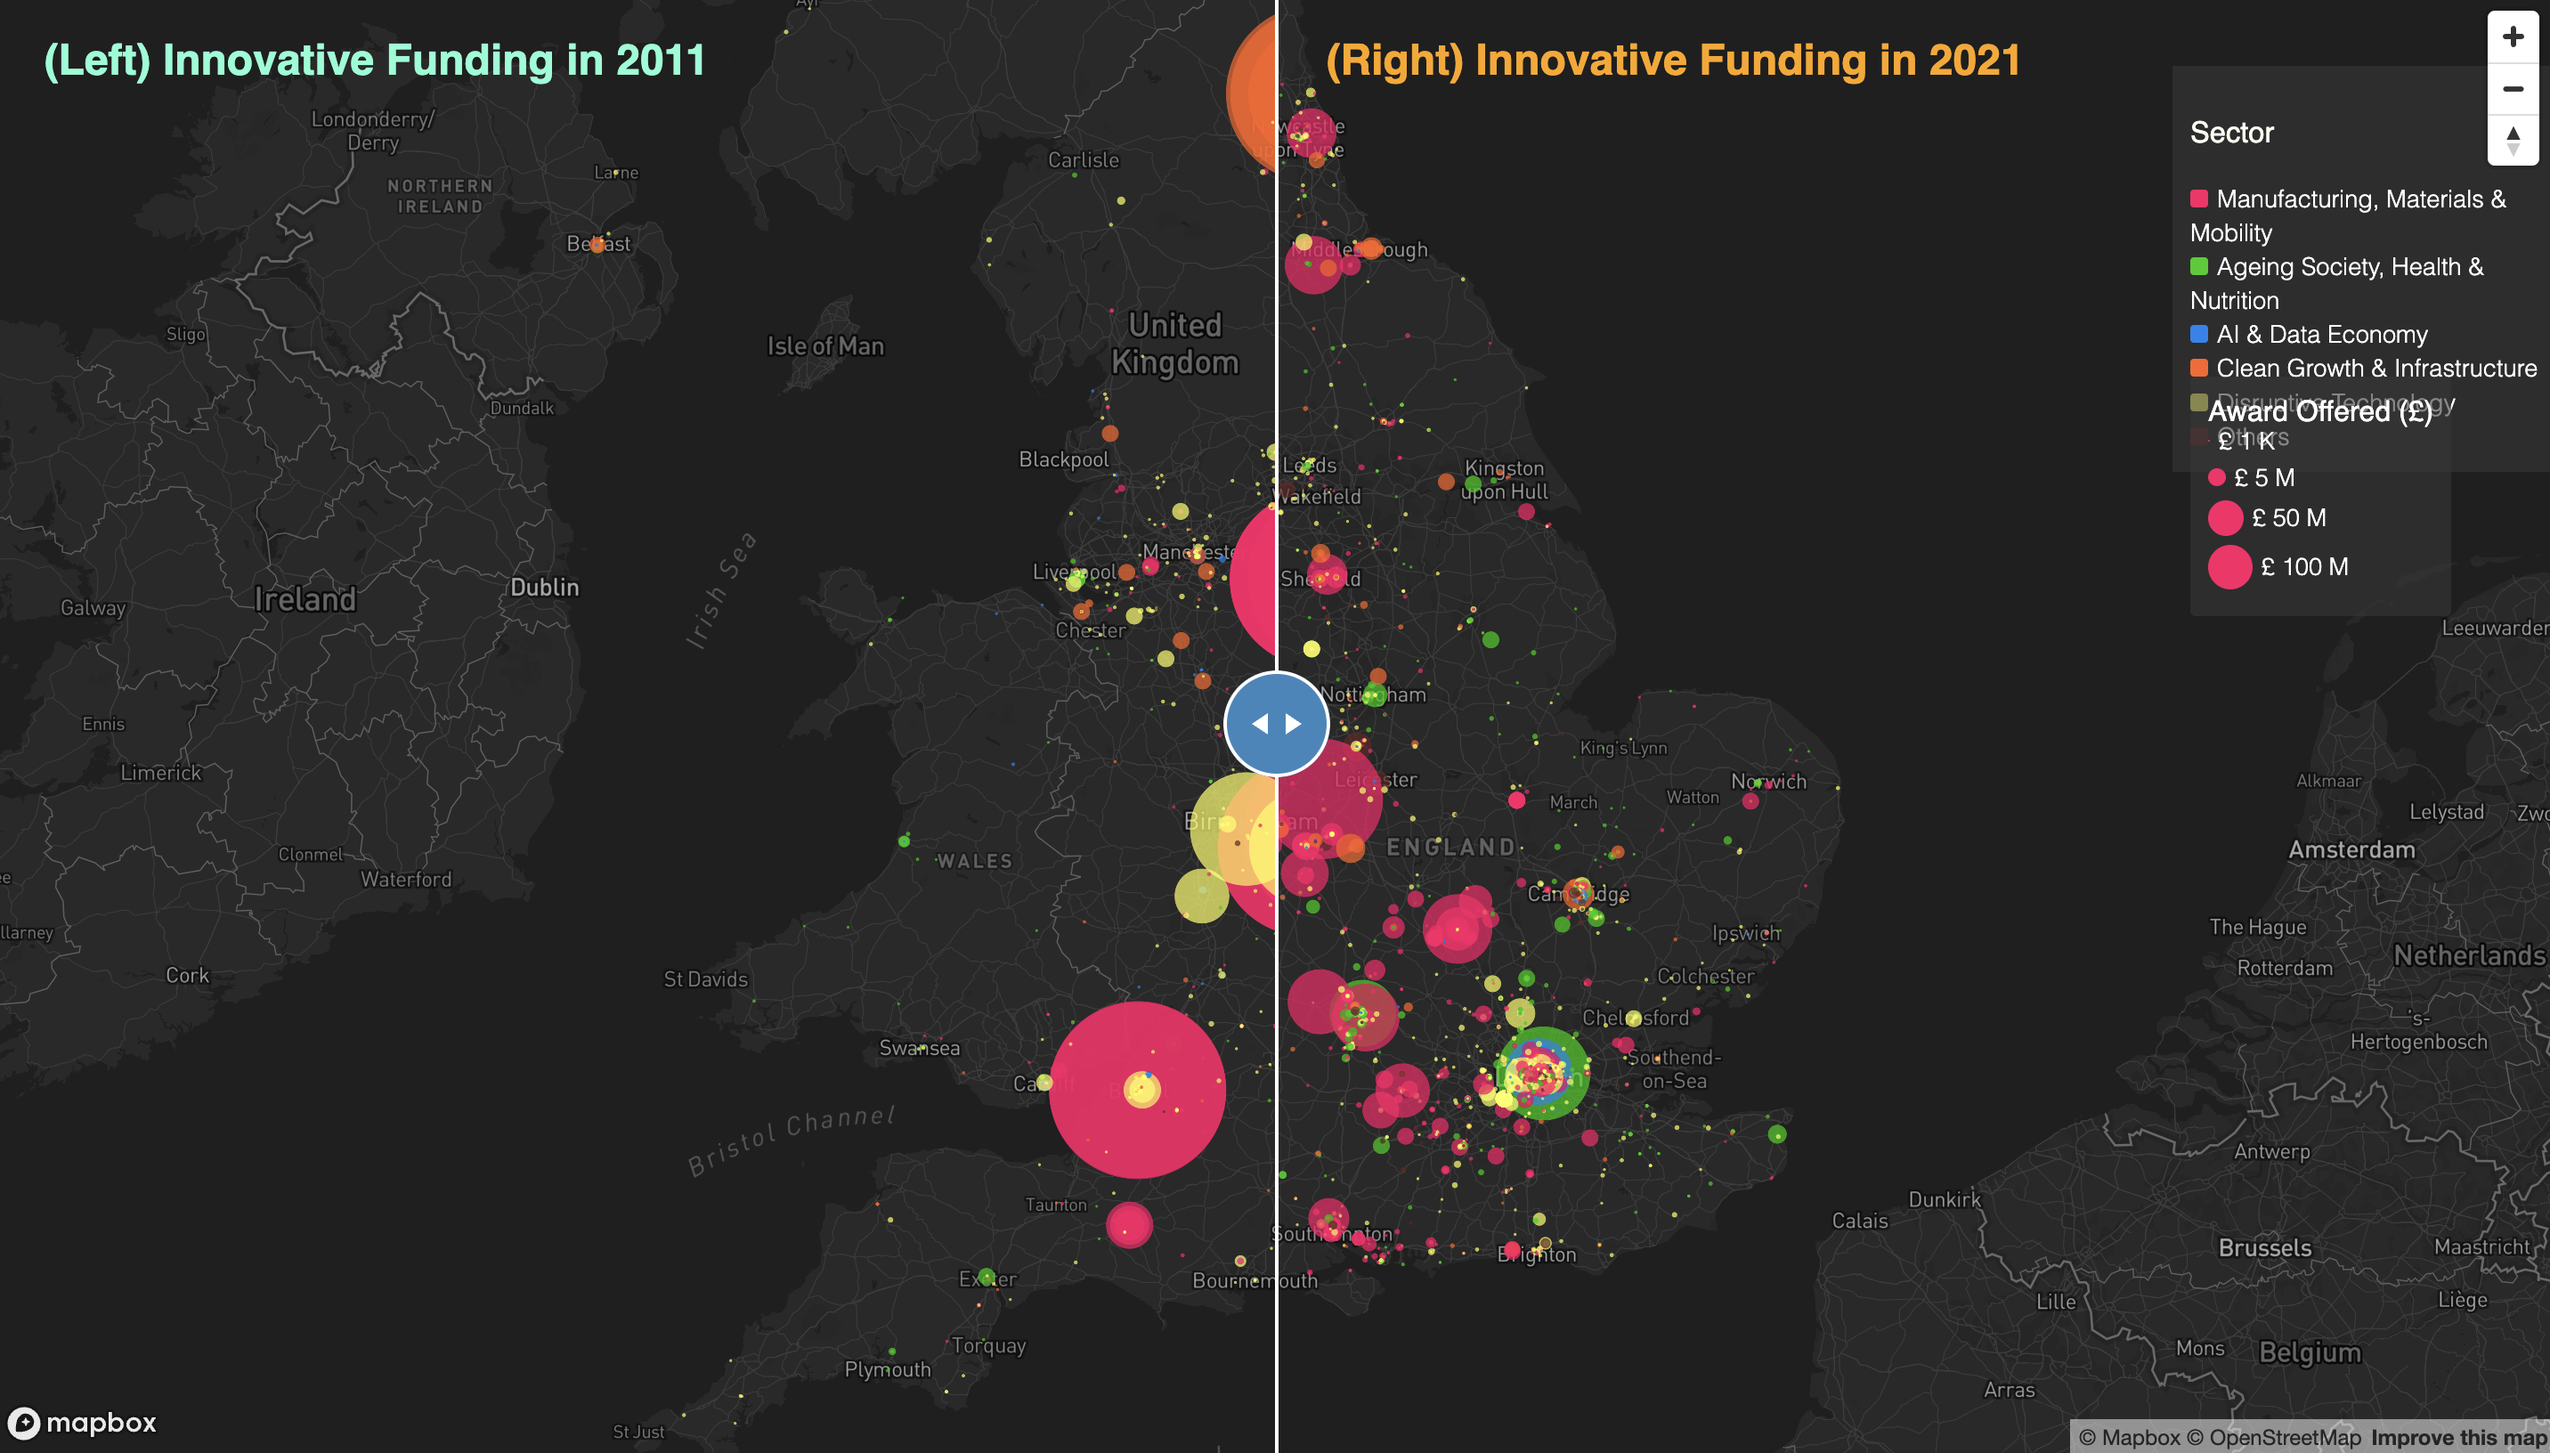
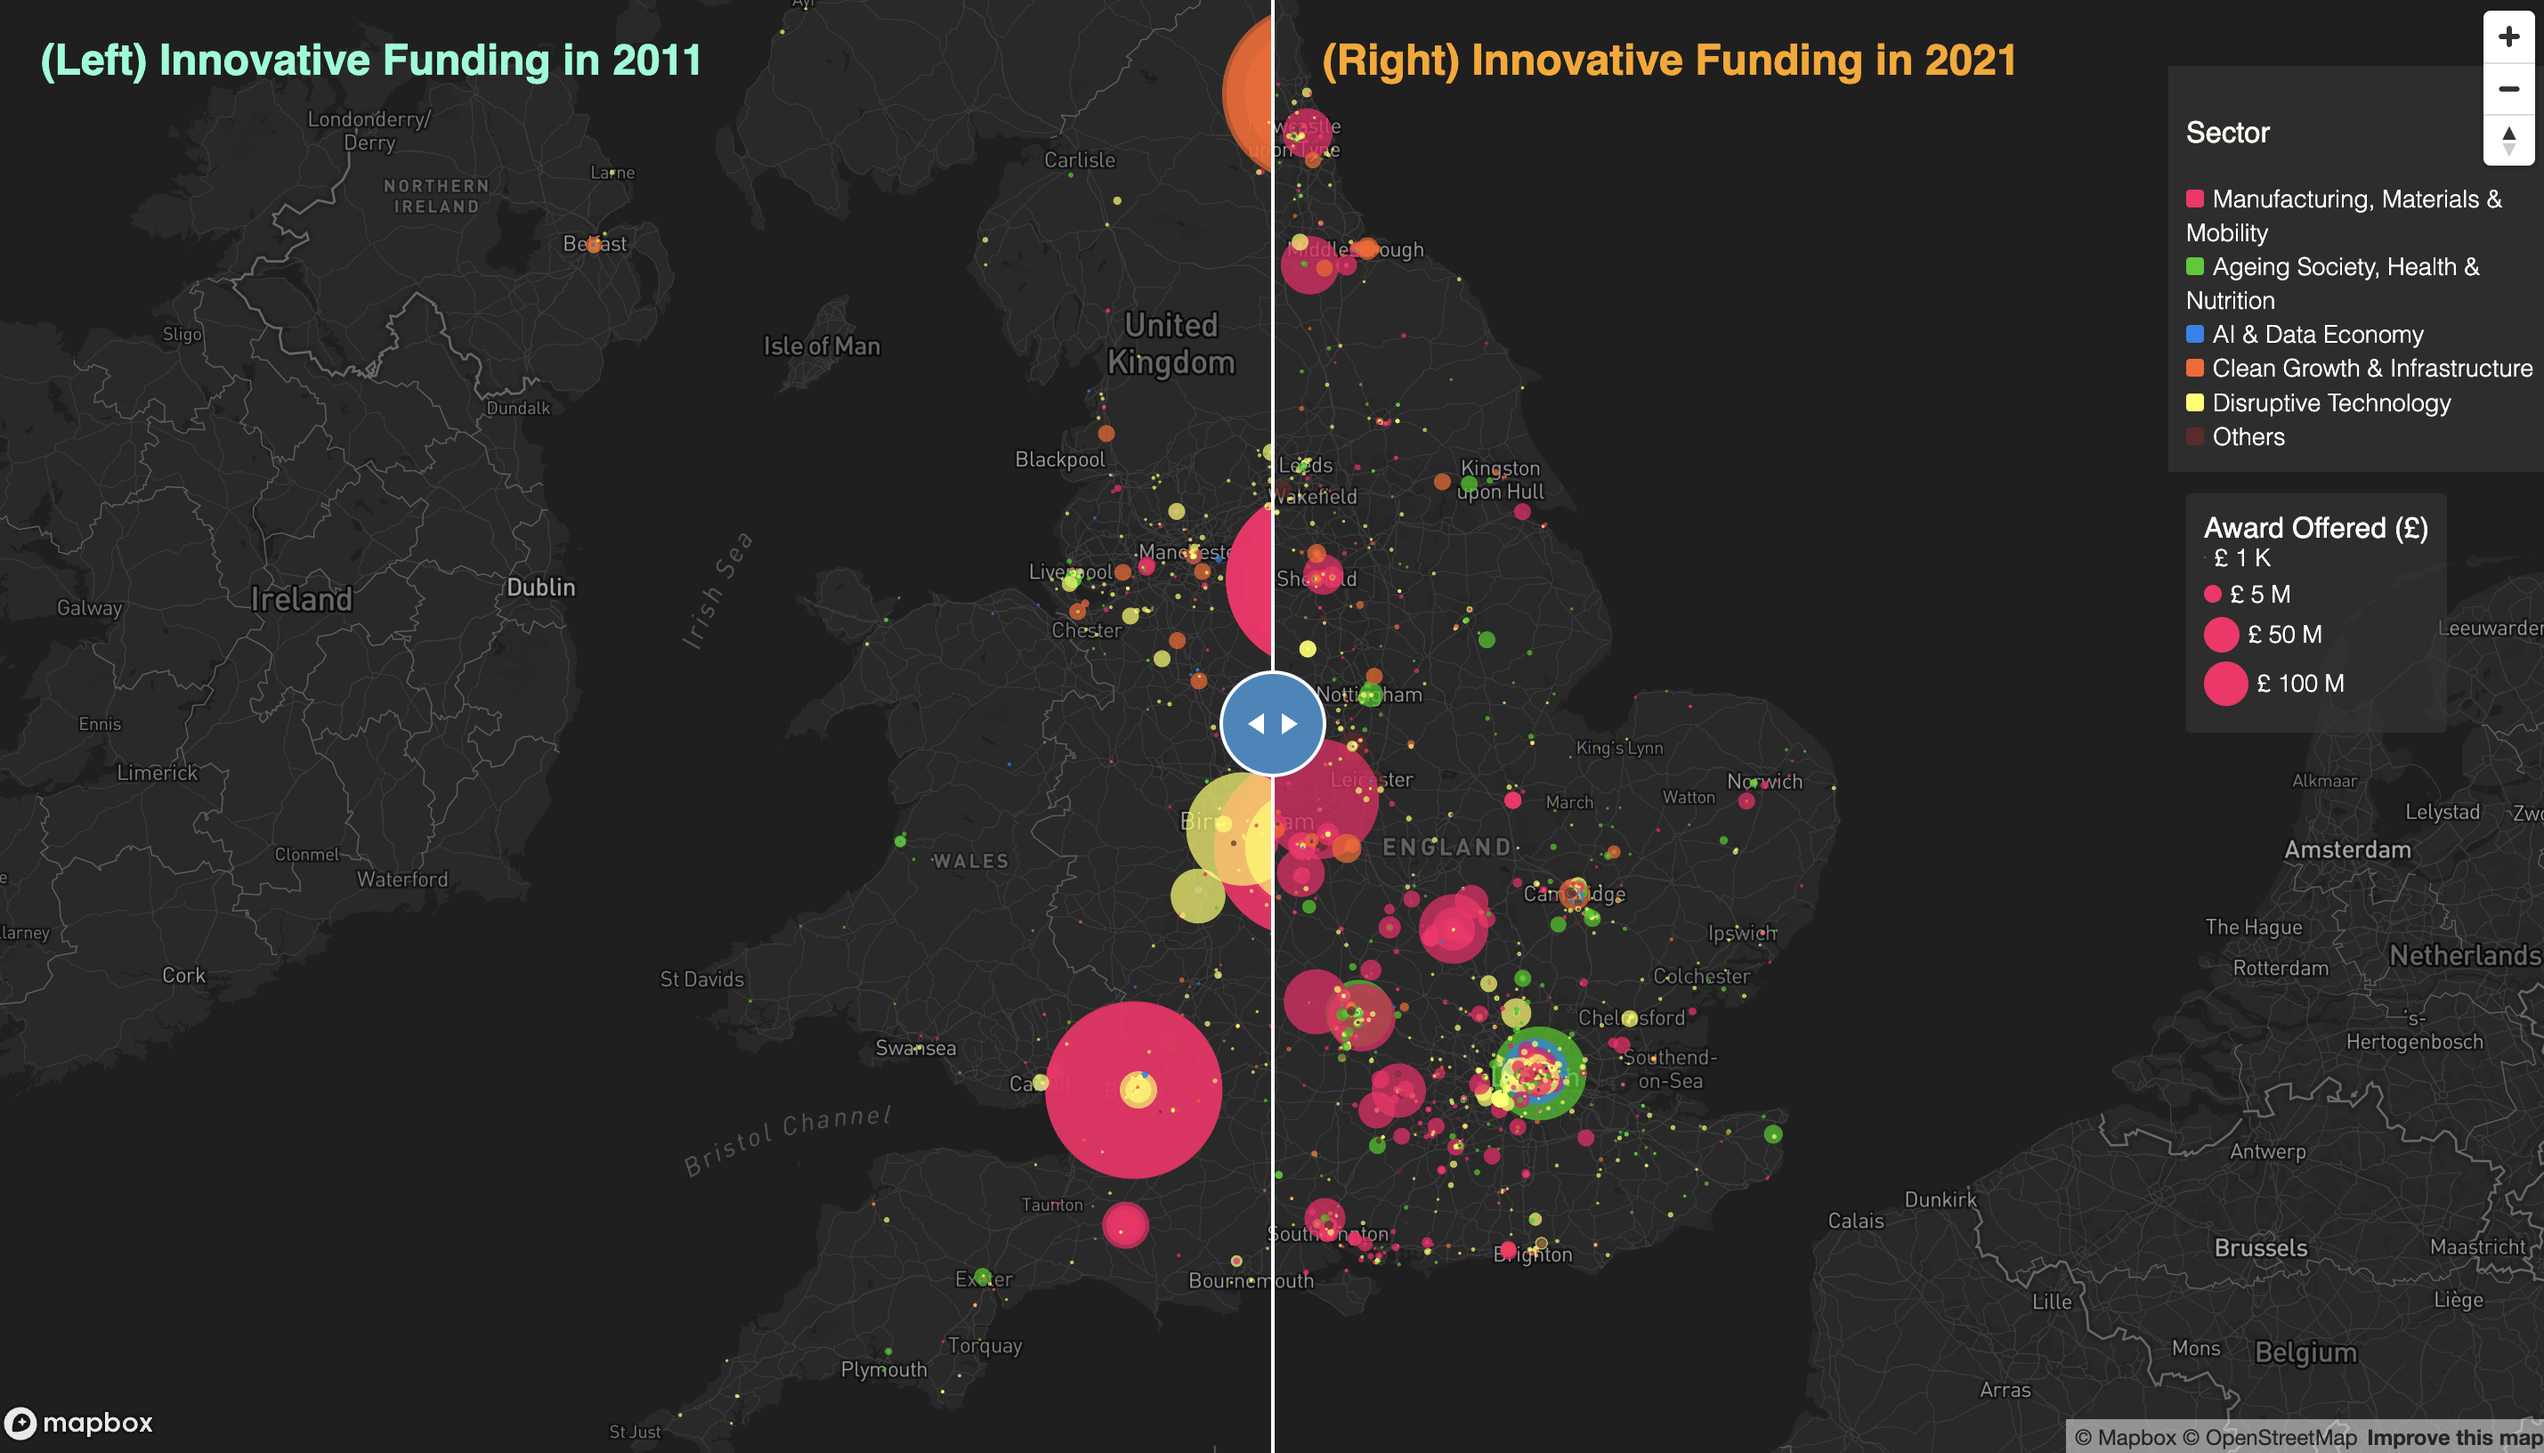
add new pics

diff --git a/css/style_innovate_map_comparison_2.css b/css/style_innovate_map_comparison_2.css
@@ -123,7 +123,7 @@ a {
 .bubble-legend {
 	background-color: rgba(55, 55, 55, 0.6);
 	left: 85%;
-	top: 25%;
+	top: 33%;
 	border-radius: 3px;
 	color: #fff;
 	font-family: 'Chivo', sans-serif;
